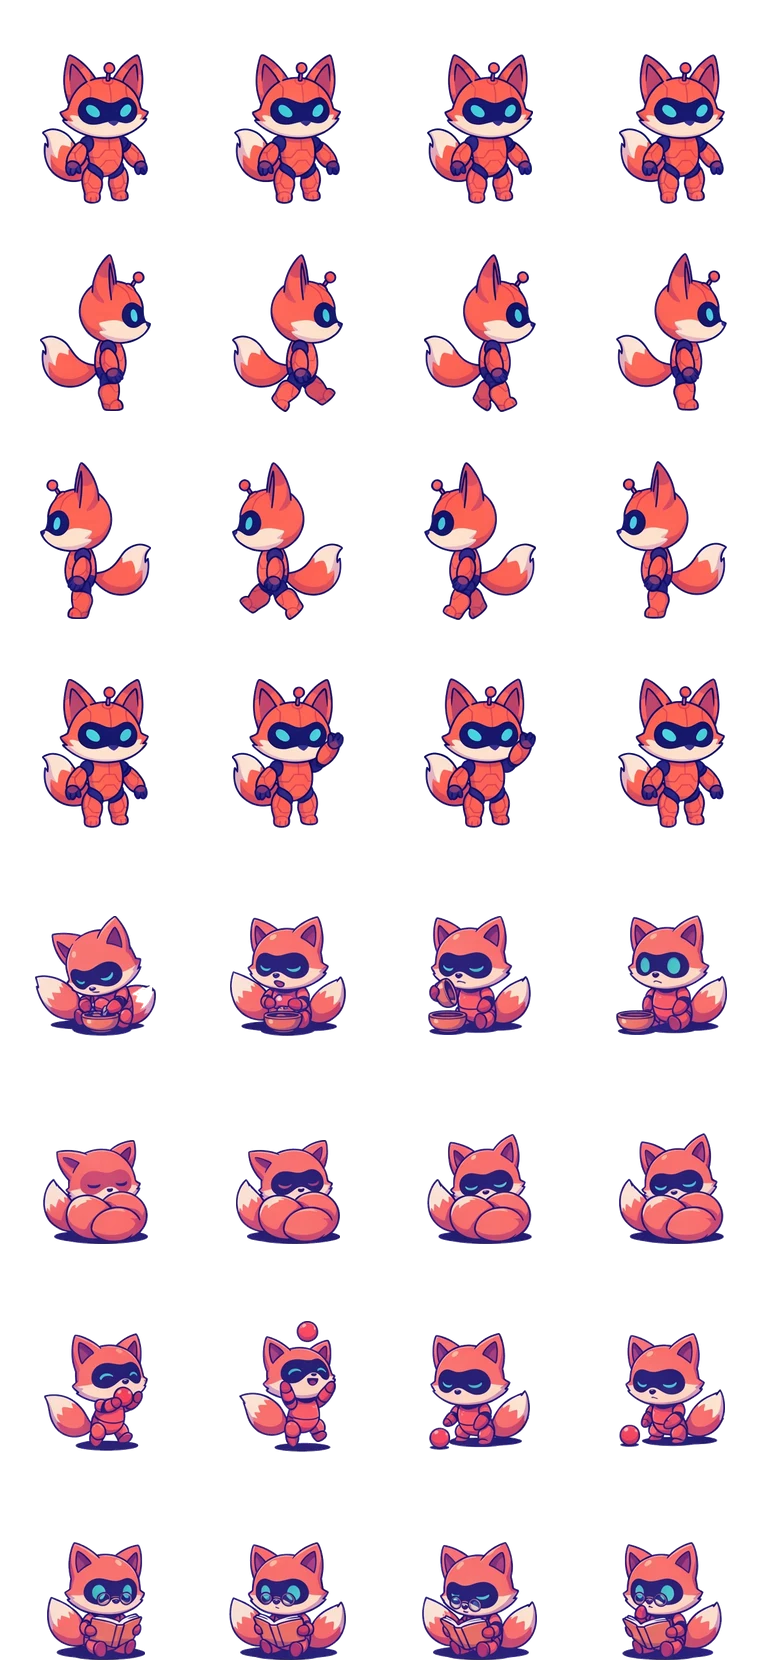
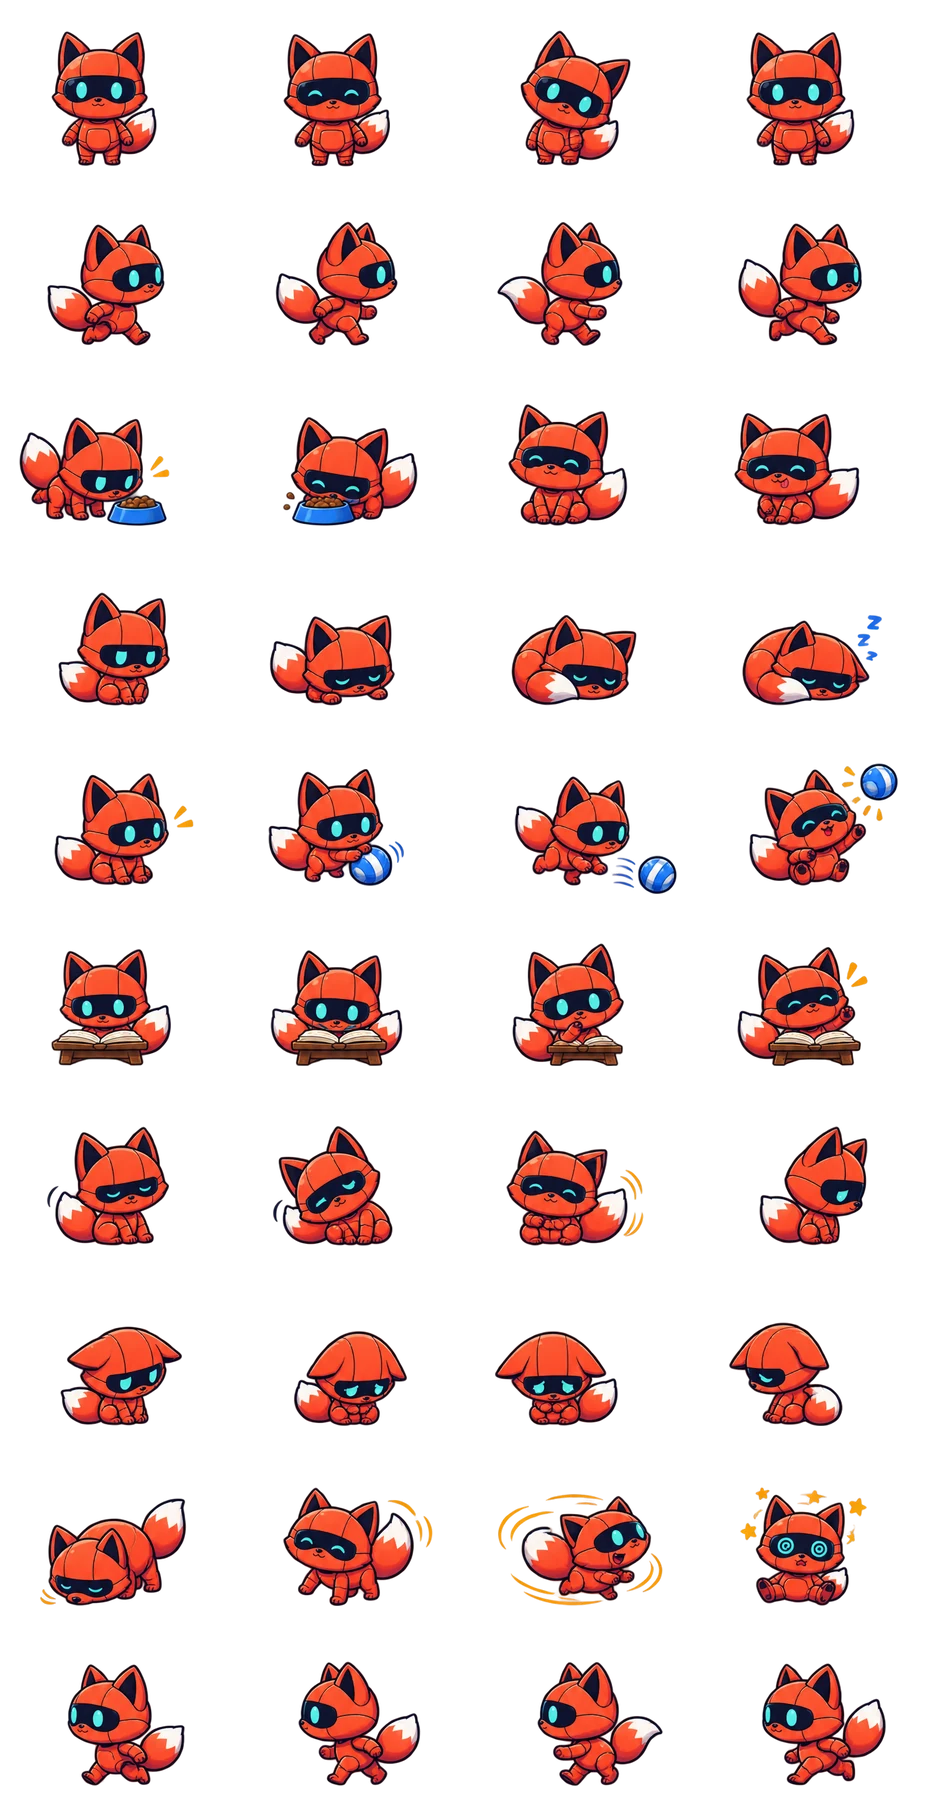
Заменил Лисенка на нового

diff --git a/src/components/pet/sprites.ts b/src/components/pet/sprites.ts
@@ -116,11 +116,35 @@ const ALPACA: Record<PetAnim, SheetFrame> = {
   trick: alp(8, 6),
 };
 
+const FOX_BASE = { src: u('/pets/fox-sheet.webp'), cols: 4, rows: 10, cw: 232, ch: 180 };
+const fx = (row: number, fps: number): SheetFrame => ({ ...FOX_BASE, row, frames: 4, fps });
+
+const FOX: Record<PetAnim, SheetFrame> = {
+  idle: fx(0, 4),
+  'run-right': fx(1, 8),
+  'run-left': fx(9, 8),
+  wave: fx(6, 9),
+  jump: fx(4, 6),
+  failed: fx(7, 3),
+  waiting: fx(3, 3),
+  working: fx(5, 4),
+  review: fx(6, 9),
+  eat: fx(2, 5),
+  sleep: fx(3, 3),
+  play: fx(4, 6),
+  study: fx(5, 4),
+  pet: fx(6, 5),
+  beg: fx(0, 4),
+  special: fx(8, 7),
+  flap: fx(6, 9),
+  trick: fx(8, 6),
+};
+
 export const PET_SHEETS: Record<PetType, Record<PetAnim, SheetFrame>> = {
   cat: KODIK,
   dog: ALPACA,
   bird: buildSheet('bird-sheet.webp'),
-  fox: buildSheet('fox-sheet.webp'),
+  fox: FOX,
   dragon: {
     ...buildSheet('dragon-sheet.webp'),
     flap: { src: u('/pets/dragon-flap.webp'), cols: 8, rows: 1, row: 0, frames: 8, fps: 16 },

diff --git a/src/components/pet/PetSprite.tsx b/src/components/pet/PetSprite.tsx
@@ -56,7 +56,7 @@ function motionFor(type: PetType, anim: PetAnim): { motion: string; shadow: stri
     case 'jump':
       return { motion: 'pm-jump', shadow: 'pm-sh-jump' };
     case 'play':
-      return type === 'cat' || type === 'dog' ? { motion: '', shadow: '' } : { motion: 'pm-play', shadow: 'pm-sh-play' };
+      return type === 'cat' || type === 'dog' || type === 'fox' ? { motion: '', shadow: '' } : { motion: 'pm-play', shadow: 'pm-sh-play' };
     case 'eat':
       return { motion: 'pm-eat', shadow: '' };
     case 'sleep':
